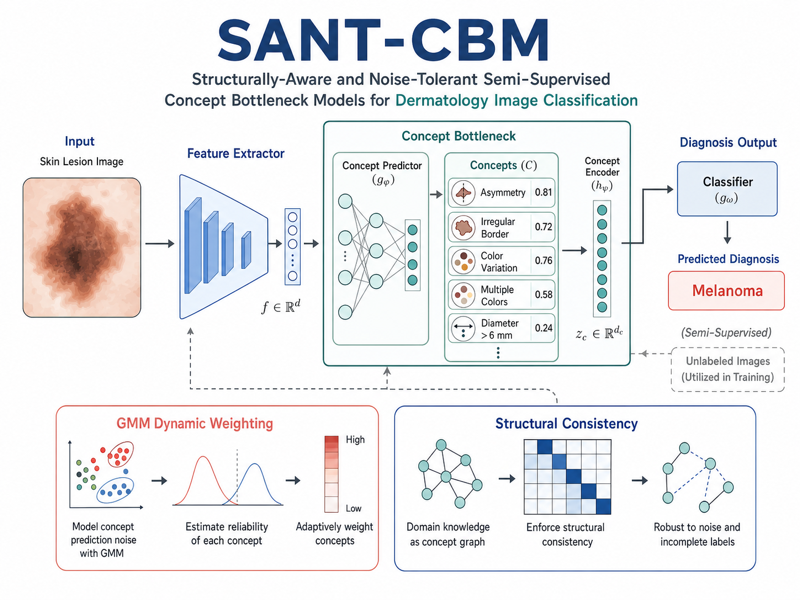
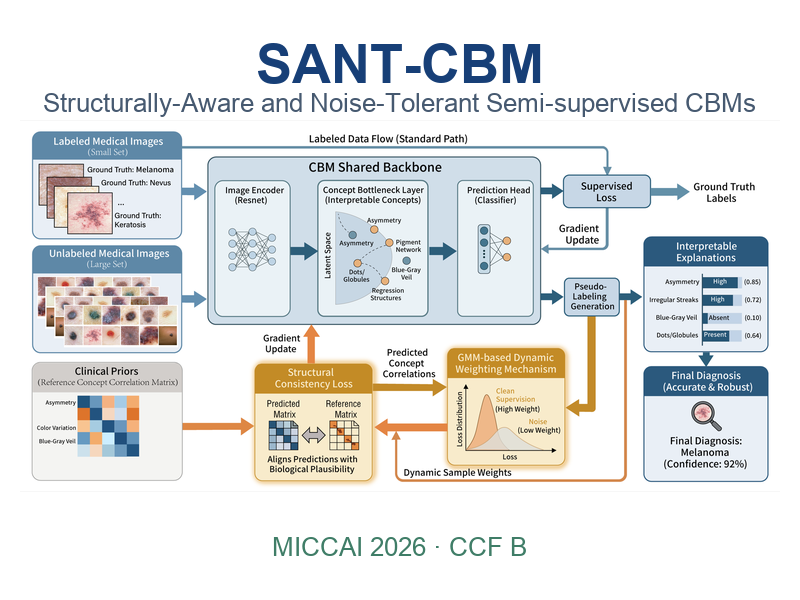
Add SANT-CBM project page
Tested: LANG=en_US.UTF-8 LC_ALL=en_US.UTF-8 bundle exec jekyll build

Tested: curl local /sant-cbm/ page and project image assets

Constraint: no public paper PDF, LaTeX source, or code link added before MICCAI release process is finalized

diff --git a/_pages/sant-cbm.md b/_pages/sant-cbm.md
@@ -1,0 +1,109 @@
+---
+permalink: /sant-cbm/
+title: "SANT-CBM: Structurally-Aware and Noise-Tolerant Semi-supervised Concept Bottleneck Models"
+excerpt: "MICCAI 2026 — Project page"
+author_profile: false
+---
+
+<div class="project-hero">
+  <div class="project-hero-copy">
+    <p class="project-kicker">MICCAI 2026 · CCF B · Provisionally Accepted</p>
+    <h1>SANT-CBM: Structurally-Aware and Noise-Tolerant Semi-supervised Concept Bottleneck Models</h1>
+    <p class="project-subtitle">Project page</p>
+    <div class="project-hero-actions">
+      <a class="project-btn primary" href="#overview">Overview</a>
+      <a class="project-btn secondary" href="#results">Results</a>
+    </div>
+  </div>
+  <img class="project-hero-figure" src="{{ '/images/sant-cbm/framework.png' | relative_url }}" alt="SANT-CBM framework">
+</div>
+
+<div class="project-tldr">
+<p class="project-tldr-label">TL;DR</p>
+<p>SANT-CBM improves semi-supervised Concept Bottleneck Models for dermatology diagnosis by down-weighting noisy pseudo-labels with GMM-based dynamic weighting and enforcing clinically plausible concept correlations through structural consistency.</p>
+</div>
+
+**Authors:** HongWei Liu, Jia Liu, **Songning Lai~**  
+**Venue:** Medical Image Computing and Computer Assisted Intervention (**MICCAI 2026**, CCF B), provisionally accepted  
+**Note:** `~` denotes corresponding author. Paper and code links will be added after the applicable MICCAI public-release and artifact-release requirements are satisfied.
+
+---
+
+<span class='anchor' id='overview'></span>
+
+## Overview
+
+<img src="{{ '/images/sant-cbm/framework.png' | relative_url }}" alt="SANT-CBM framework" style="max-width: 98%; height: auto;" />
+
+Concept Bottleneck Models (CBMs) make medical image classifiers more interpretable by predicting human-understandable clinical concepts before the final diagnosis. In label-scarce medical settings, however, semi-supervised CBMs face two reliability issues: noisy pseudo-labels from unlabeled data and concept predictions that may violate pathological correlations.
+
+SANT-CBM addresses both issues with two complementary branches:
+
+1. **Noise-Tolerant learning:** a GMM-based dynamic weighting mechanism estimates whether each concept-level pseudo-label is clean or noisy from its loss distribution, then down-weights unreliable supervision.
+2. **Structurally-Aware learning:** a structural consistency loss aligns predicted concept correlations with a reference correlation matrix derived from clinical priors, encouraging biologically plausible concept combinations.
+
+---
+
+## Method
+
+The model follows a CBM pipeline with a concept predictor and a label predictor. For unlabeled samples, SANT-CBM generates initial pseudo concept labels from a feature bank, then uses a two-component Gaussian Mixture Model to estimate concept-wise cleanliness weights.
+
+The denoised pseudo-label loss is:
+
+$$
+\mathcal{L}_{denoise} =
+\frac{1}{N_U}\sum_{i=1}^{N_U}\sum_{j=1}^{M}
+w_{i,j}\cdot(g(\mathbf{u}_i)_j-\tilde{c}_{i,j})^2.
+$$
+
+For structural consistency, the model computes a differentiable batch-wise concept correlation matrix and aligns it to the clinical reference matrix:
+
+$$
+\mathcal{L}_{struct} =
+\left\|\mathbf{R}_{ref}-\hat{\mathbf{R}}_{batch}\right\|_F^2.
+$$
+
+The full objective combines supervised CBM training, noise-tolerant pseudo-label alignment, and structural consistency:
+
+$$
+\mathcal{L}_{total} =
+\mathcal{L}_{sup}+\lambda_u\mathcal{L}_{denoise}+\lambda_s\mathcal{L}_{struct}.
+$$
+
+---
+
+<span class='anchor' id='results'></span>
+
+## Results
+
+SANT-CBM is evaluated on two public dermatology datasets: **Fitzpatrick17k** and **7-point Checklist**. Under the 10% labeled setting, it improves task accuracy over the state-of-the-art semi-supervised CBM baseline.
+
+| Dataset | SSCBM Task Acc. | SANT-CBM Task Acc. | Gain |
+|---------|------------------|--------------------|------|
+| Fitzpatrick17k | 71.52% | **77.83%** | +6.31% |
+| 7-point Checklist | 67.52% | **73.27%** | +5.75% |
+
+### Ablation on Fitzpatrick17k
+
+| GMM Denoising | Structural Loss | Concept Acc. | Task Acc. |
+|---------------|-----------------|--------------|-----------|
+| - | - | 86.31% | 71.51% |
+| Yes | - | 87.81% | 74.38% |
+| - | Yes | 86.47% | 75.13% |
+| Yes | Yes | **88.84%** | **77.83%** |
+
+---
+
+## Visualization
+
+<img src="{{ '/images/sant-cbm/qualitative.png' | relative_url }}" alt="SANT-CBM qualitative analysis" style="max-width: 95%; height: auto;" />
+
+The qualitative analysis shows that SANT-CBM better matches the reference concept-correlation structure than SSCBM, while the GMM module identifies low-confidence unlabeled examples and reduces their influence during training.
+
+---
+
+## Release
+
+The paper is provisionally accepted to MICCAI 2026. Public paper links, citation metadata, and repository links will be updated after the camera-ready and MICCAI public-release process is finalized.
+
+[← Back to Home]({{ '/' | relative_url }})

diff --git a/_pages/about.md b/_pages/about.md
@@ -74,7 +74,7 @@ If you are interested in any aspect of me, I would love to chat and collaborate.
 </div>
 
 <ul id="news-list" class="news-list is-collapsed">
-<li><em>06.2026</em>  🎉 Our paper "SANT-CBM: Structurally-Aware and Noise-Tolerant Semi-supervised Concept Bottleneck Models" has been provisionally accepted at <strong>MICCAI 2026</strong> (CCF B), where I serve as the last and corresponding author!</li>
+<li><em>06.2026</em>  🎉 Our paper <a href="https://xll0328.github.io/sant-cbm/">"SANT-CBM: Structurally-Aware and Noise-Tolerant Semi-supervised Concept Bottleneck Models"</a> has been provisionally accepted at <strong>MICCAI 2026</strong> (CCF B), where I serve as the last and corresponding author!</li>
 <li><em>06.2026</em>  🎉 Our paper <a href="images/FixCBM_ICANN2026.pdf">"Concept-Consistent Semi-Supervised Learning for Concept Bottleneck Models via Confidence-Guided Pseudo-Label Propagation"</a> has been accepted at <strong>ICANN 2026</strong> (CCF C), where I serve as corresponding author!</li>
 <li><em>03.2026</em>  📝 Our paper <a href="https://openreview.net/forum?id=bntZBG9fBY">"Multimodal Deception in Explainable AI: Concept-Level Backdoor Attacks on Concept Bottleneck Models"</a> has been <strong>accepted at TMLR 2026</strong>. <strong><a href="https://xll0328.github.io/cat/">[Project Page]</a></strong> <strong><a href="https://github.com/xll0328/CAT_CBM-Backdoor">[Code]</a></strong></li>
 <li><em>03.2026</em>  🏆 Our paper "Towards Better Evaluation Metrics for Text-to-Motion Generation" won the <strong><a href="https://time.griffith.edu.au/workshop/time2026/pages/media.html">Best Paper Runner-Up Award</a></strong> at <strong>ACM TheWebConf 2026 (WWW2026) Workshop TIME</strong>!</li>
@@ -125,13 +125,15 @@ If you are interested in any aspect of me, I would love to chat and collaborate.
 <div class='paper-box'><div class='paper-box-image'><div><div class="badge">MICCAI 2026</div><img src='images/SANT-CBM.png' alt="SANT-CBM: Structurally-Aware and Noise-Tolerant Semi-supervised Concept Bottleneck Models" loading="lazy" width="400" height="300"></div></div>
 <div class='paper-box-text' markdown="1">
 
-<strong>SANT-CBM: Structurally-Aware and Noise-Tolerant Semi-supervised Concept Bottleneck Models</strong>
+<strong><a href="https://xll0328.github.io/sant-cbm/">SANT-CBM: Structurally-Aware and Noise-Tolerant Semi-supervised Concept Bottleneck Models</a></strong>
 
 HongWei Liu, Jia Liu, <strong>Songning Lai~</strong>
 
 Medical Image Computing and Computer Assisted Intervention <strong>MICCAI 2026</strong> <span class="venue-badge ccf-b">CCF B</span>. Provisionally accepted.
 
 <p class="paper-description">We propose SANT-CBM, a semi-supervised Concept Bottleneck Model for medical image classification. It uses GMM-based dynamic weighting to reduce noisy pseudo-label supervision and a structural consistency loss to align predicted concept correlations with clinical priors, improving label-efficient and interpretable diagnosis on dermatology datasets.</p>
+
+<strong><a href="https://xll0328.github.io/sant-cbm/">Project Page</a></strong>
 
 </div>
 </div>
@@ -326,7 +328,7 @@ The Conference on Neural Information Processing Systems <strong>NeurIPS 2024</st
 
 <h2>2026</h2>
 <ul class="publication-list">
-<li data-tags="ccf-b">SANT-CBM: Structurally-Aware and Noise-Tolerant Semi-supervised Concept Bottleneck Models, HongWei Liu, Jia Liu, <strong>Songning Lai~</strong>, Medical Image Computing and Computer Assisted Intervention <strong>MICCAI 2026</strong> (CCF B, Provisionally Accepted).</li>
+<li data-tags="ccf-b">SANT-CBM: Structurally-Aware and Noise-Tolerant Semi-supervised Concept Bottleneck Models, HongWei Liu, Jia Liu, <strong>Songning Lai~</strong>, Medical Image Computing and Computer Assisted Intervention <strong>MICCAI 2026</strong> (CCF B, Provisionally Accepted). <strong><a href="https://xll0328.github.io/sant-cbm/">Project Page</a></strong></li>
 <li data-tags="ccf-c">Concept-Consistent Semi-Supervised Learning for Concept Bottleneck Models via Confidence-Guided Pseudo-Label Propagation, Yayue Mai, <strong>Songning Lai~</strong>, International Conference on Artificial Neural Networks <strong>ICANN 2026</strong> (CCF C, Accepted). <strong><a href="images/FixCBM_ICANN2026.pdf">Paper</a></strong></li>
 <li data-tags="tmlr">Multimodal Deception in Explainable AI: Concept-Level Backdoor Attacks on Concept Bottleneck Models, <strong>Songning Lai</strong>, Jiayu Yang, Yu Huang, Lijie Hu, Tianlang Xue, Zhangyi Hu, Jiaxu Li, Haicheng Liao, Zongyang Liu, Yutao Yue, <strong>TMLR 2026</strong> (Accepted).</li>
 <li data-tags="iclr">ACE: Attribution-Controlled Knowledge Editing for Multi-hop Factual Recall, Jiayu Yang†, Yuxuan Fan†, <strong>Songning Lai†</strong>, Shengen Wu, Jiaqi Tang, Chun Kang, Zhijiang Guo, Yutao Yue, <strong>ICLR 2026</strong> (CCF A).</li>